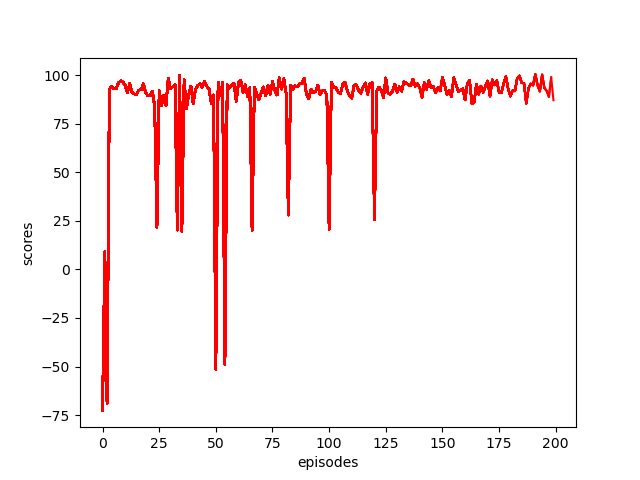
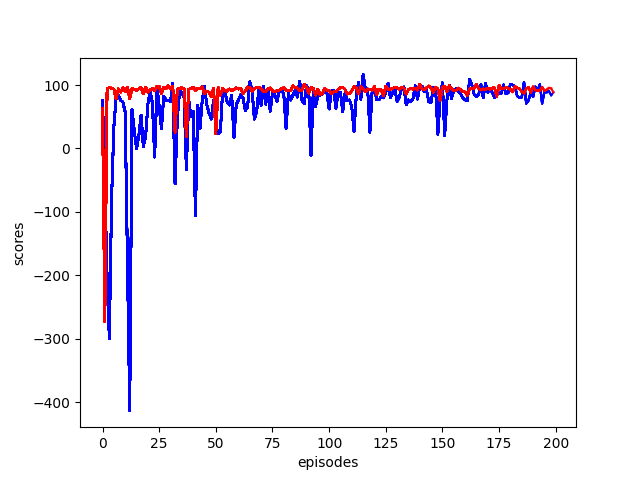
[docs] assignment2 part1

diff --git a/RL_assignment-main/assignment_02/part1/RL2.py b/RL_assignment-main/assignment_02/part1/RL2.py
@@ -177,9 +177,7 @@ class RL2:
 
 
             while not done:
-                states.append(state)
-                if e == 3:
-                    print("hello")
+
                 
                 #epsilon greedy
                 if np.random.rand() < epsilon:
@@ -194,8 +192,6 @@ class RL2:
 
                 [reward, next_state] = self.sampleRewardAndNextState(state, action)
 
-
-
                 n_s_a[action, state] += 1
                 n_s_a_sp[action, state, next_state] += 1
                 # update transision model
@@ -203,9 +199,6 @@ class RL2:
                 
                 # update reward model
                 R[action, state] += (1/n_s_a[action, state])*(reward - R[action, state])
-
-
-
 
                 q_s_a = np.zeros(self.mdp.nActions)
                 for a in range(self.mdp.nActions):
@@ -231,10 +224,10 @@ class RL2:
                     print()
                     print('*******************************************')
                     print()
-            plt.plot(episodes, scores, 'r')
-            plt.xlabel('episodes')
-            plt.ylabel('scores')
-            plt.savefig(dirpath+'/save_graph/modelbasedRL.png')
+            #plt.plot(episodes, scores, 'r')
+            #plt.xlabel('episodes')
+            #plt.ylabel('scores')
+            #plt.savefig(dirpath+'/save_graph/modelbasedRL.png')
 
 
 
@@ -425,10 +418,10 @@ class RL2:
 
                     print("episode: {:3d} | score: {:.3f} | entropy: {:.3f}".format(
         e, score, entropy))
-                    plt.plot(episodes, scores, 'b')
-                    plt.xlabel('episodes')
-                    plt.ylabel('scores')
-                    plt.savefig(dirpath+'/save_graph/reinforce_graph.png')
+                    #plt.plot(episodes, scores, 'b')
+                    #plt.xlabel('episodes')
+                    #plt.ylabel('scores')
+                    #plt.savefig(dirpath+'/save_graph/reinforce_graph.png')
 
             if e % 100 == 0:
                 agent.model.save_weights(dirpath + '/save_model/reinforce_model', save_format='tf')
@@ -478,18 +471,22 @@ class RL2:
         # function is coded
         Q = initialQ
         n_s_a = np.zeros([self.mdp.nActions, self.mdp.nStates], int)
-        
+        policy = np.zeros(self.mdp.nStates)
         discount = self.mdp.discount
 
+        episodes, scores= [], []
 
+        dirpath = os.path.dirname(os.path.abspath(__file__)).replace('\\', '/')
 
         
 
-        for i in range(nEpisodes):
+        for e in range(nEpisodes):
             n = 0
             state = s0
+            done = False
+            score = 0
 
-            while(n < nSteps):
+            while not done:
 
 
                 #epsilon greedy
@@ -501,35 +498,43 @@ class RL2:
                     max_q = max_q_list.flatten().tolist()
                     action = np.random.choice(max_q)
 
-                    policy[state] = action
-
-                action = self.get_action(state, Q, epsilon)
                 [reward, next_state] = self.sampleRewardAndNextState(state,action)
  
                 n_s_a[action][state] += 1
                 alpha = 1/n_s_a[action][state]
 
                 q1 = Q[action][state]
-                q2 = reward + discount * max(Q[:, next_state])
+                q2 = reward + discount * np.max(Q[:, next_state])
 
                 Q[action][state] += alpha *(q2 - q1)
 
-
+                score += reward
                 state = next_state
 
-                if state == 16:
-                    break
-
-
                 n += 1
-            plt.pause(1)
-            plt.close()
-
-        policy = self.extracpolicy(Q)
 
 
+                if state == 16 or n == nSteps:
+                    done = True
+                if done:
+                    scores.append(score)
+                    episodes.append(e)
+
+                    print("step: {:3d} | episode: {:3d} | score: {:.3f} ".format(n, e, score))
+
+                    for s in range(self.mdp.nStates):
+                        policy[s] = np.argmax(Q[:, s])
+
+
+        #plt.plot(episodes, scores, 'b' ,alpha=0.6)
+        #plt.xlabel('episodes')
+        #plt.ylabel('scores')
+        #plt.savefig(dirpath+'/save_graph/qlearning_graph.png')
 
 
 
 
-        return [Q,policy]
+
+
+
+        return [Q, policy, scores]

diff --git a/RL_assignment-main/assignment_02/part1/TestRL2Maze.py b/RL_assignment-main/assignment_02/part1/TestRL2Maze.py
@@ -1,6 +1,8 @@
 import numpy as np
 import MDP
 import RL2
+import matplotlib.pyplot as plt
+import os
 
 
 ''' Construct a simple maze MDP
@@ -305,20 +307,54 @@ mdp = MDP.MDP(T,R,discount)
 # RL problem
 rlProblem = RL2.RL2(mdp,np.random.normal)
 
-#episodes = np.array(range(200))
-## Test REINFORCE 
-#scores_reinforce = rlProblem.reinforce(s0=0,initialPolicyParams=np.random.rand(mdp.nActions,mdp.nStates),nEpisodes=200,nSteps=100)
-#print("\nREINFORCE results")
-##print(policy)
-#
-## Test model-based RL
-#[V,policy,scores_mb] = rlProblem.modelBasedRL(s0=0,defaultT=np.zeros([mdp.nActions,mdp.nStates,mdp.nStates])/mdp.nStates,initialR=np.zeros([mdp.nActions,mdp.nStates]),nEpisodes=200,nSteps=100,epsilon=0.05)
-#print("\nmodel-based RL results")
-#print(V)
+episodes = np.array(range(200))
+# Test REINFORCE 
+scores_reinforce = rlProblem.reinforce(s0=0,initialPolicyParams=np.random.rand(mdp.nActions,mdp.nStates),nEpisodes=200,nSteps=100)
+print("\nREINFORCE results")
+print('*********************************************************')
+print()
 #print(policy)
 
+# Test model-based RL
+[V,policy,scores_mb] = rlProblem.modelBasedRL(s0=0,defaultT=np.zeros([mdp.nActions,mdp.nStates,mdp.nStates])/mdp.nStates,initialR=np.zeros([mdp.nActions,mdp.nStates]),nEpisodes=200,nSteps=100,epsilon=0.05)
+print("\nmodel-based RL results")
+print(V)
+print(policy)
+print('*********************************************************')
+print()
+
 # Test Q-learning
-[Q,policy] = rlProblem.qLearning(s0=0,initialQ=np.zeros([mdp.nActions,mdp.nStates]),nEpisodes=200,nSteps=100,epsilon=0.05)
+[Q,policy,scores_ql] = rlProblem.qLearning(s0=0,initialQ=np.zeros([mdp.nActions,mdp.nStates]),nEpisodes=200,nSteps=100,epsilon=0.05)
 print("\nQ-learning results")
 print(Q)
 print(policy)
+print('*********************************************************')
+print()
+
+dirpath = os.path.dirname(os.path.abspath(__file__)).replace('\\', '/')
+
+
+plt.figure(figsize=(14,14))
+plt.subplot(221)
+plt.plot(episodes, scores_reinforce, 'r', alpha=0.6, label='REINFORCE')
+plt.legend(loc='lower right')
+
+plt.subplot(222)
+plt.plot(episodes, scores_mb, 'g' , alpha=0.6, label='modelbased VI')
+plt.legend(loc='lower right')
+
+plt.subplot(223)
+plt.plot(episodes, scores_ql, 'b' , alpha=0.6, label='Q-learning')
+plt.legend(loc='lower right')
+
+plt.subplot(224)
+plt.plot(episodes, scores_reinforce, 'r', alpha=0.6, label='REINFORCE')
+plt.plot(episodes, scores_mb, 'g' , alpha=0.6, label='modelbased VI')
+plt.plot(episodes, scores_ql, 'b' , alpha=0.6, label='Q-learning')
+plt.title('RL2 scores graph')
+plt.xlabel('episodes')
+plt.ylabel('scores')
+plt.legend(loc='lower right')
+plt.savefig(dirpath+'/save_graph/scores_graph.png')
+plt.show()
+

diff --git a/RL_assignment-main/assignment_02/test.py b/RL_assignment-main/assignment_02/test.py
@@ -1,11 +1,36 @@
 import numpy as np
 import random
 import math
+import os
+import matplotlib.pyplot as plt
 #state = np.array([0])
 #state = np.reshape( state, [1, 16])
-a = []
-for i in range(20):
-    a.append(np.random.normal(-1))
 
-print(a)
-## entropy?
+episodes = np.array(range(200))
+
+scores_reinforce = episodes*2
+scores_mb = episodes*3
+scores_ql = episodes*4
+
+plt.figure(figsize=(12, 12))
+plt.title("test")
+plt.subplot(221)
+plt.plot(episodes, scores_reinforce, 'r', label='REINFORCE')
+
+plt.subplot(222)
+plt.plot(episodes, scores_mb, 'g' , label='modelbased VI')
+
+plt.subplot(223)
+plt.plot(episodes, scores_ql, 'b', label='Q-learning')
+
+plt.subplot(224)
+plt.plot(episodes, scores_reinforce, 'r', alpha=0.6, label='REINFORCE')
+plt.plot(episodes, scores_mb, 'g' , alpha=0.6, label='modelbased VI')
+plt.plot(episodes, scores_ql, 'b' , alpha=0.6, label='Q-learning')
+#plt.title('RL2 scores graph')
+#plt.axis([-1, 201, -200, 105])
+plt.xlabel('episodes')
+plt.ylabel('scores')
+#plt.savefig(dirpath+'/save_graph/scores_graph.png')
+plt.legend()
+plt.show()
